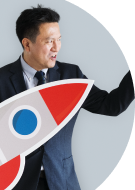
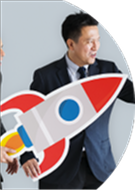
feat: implement SwiperCarousel for service cards with image support and fade effect

diff --git a/src/app/(home)/components/OurServices.tsx b/src/app/(home)/components/OurServices.tsx
@@ -1,12 +1,22 @@
+"use client";
+
 import { ServicesDataTypes } from "@/@types/@homeType";
 import { SectionWithContainer } from "@/components";
+import LinkButton from "@/components/buttons/LinkButton";
+import SwiperCarousel from "@/components/slider/SwiperCarousel";
 import SectionHeading from "@/components/typography/SectionHeadingDesc";
+import Image from "next/image";
+import { useState } from "react";
+import type { Swiper as SwiperType } from "swiper";
+import { EffectFade, Navigation, Thumbs } from "swiper/modules";
 
 const OurServices: React.FC<ServicesDataTypes> = ({
   title,
   subTitle,
   cards,
 }) => {
+  const [thumbsSwiper, setThumbsSwiper] = useState<SwiperType | null>(null);
+  const [activeIndex, setActiveIndex] = useState(0);
   return (
     <SectionWithContainer>
       <div className="grid md:grid-cols-2">
@@ -16,6 +26,67 @@ const OurServices: React.FC<ServicesDataTypes> = ({
             subTitle={subTitle}
             subTitleClassName="lg:text-[30px]"
             wrapperClassName="pr-16"
+          />
+          <div className="aspect-4/2 mt-4">
+            <SwiperCarousel
+              data={cards}
+              onSwiper={setThumbsSwiper}
+              loop={true}
+              slidesPerView={1.5}
+              spaceBetween={6}
+              watchSlidesProgress
+              slideToClickedSlide
+              breakpoints={{
+                768: {
+                  direction: "vertical",
+                  slidesPerView: cards.length,
+                },
+              }}
+              modules={[Thumbs]}
+              onSlideChange={(swiper) => setActiveIndex(swiper.realIndex)}
+              direction="horizontal"
+              className="h-full"
+              renderSlide={(sector) => (
+                <button
+                  className={`text-sm font-semibold ${activeIndex ? "text-primary" : "text-secondary"}`}
+                >
+                  {sector.title}
+                </button>
+              )}
+            />
+          </div>
+        </div>
+        <div className="">
+          <SwiperCarousel
+            data={cards}
+            slidesPerView={1}
+            loop
+            modules={[Navigation, Thumbs,EffectFade]}
+            effect="fade"
+            thumbs={{
+              swiper:
+                thumbsSwiper && !thumbsSwiper.destroyed ? thumbsSwiper : null,
+            }}
+            navigation={{
+              nextEl: ".sector-next",
+              prevEl: ".sector-prev",
+            }}
+            renderSlide={(sector) => (
+              <div className="space-y-4 bg-white py-6 px-4">
+                <div className="w-full relative aspect-4/1.5 rounded-[28.66px] border-2 border-white  box-shadow overflow-hidden">
+                  <Image
+                    src="/home/im8.png"
+                    alt={sector.title}
+                    fill
+                    className="object-cover "
+                    sizes="100vw"
+                  />
+                </div>
+                <h3 className="text-2xl">{sector.title}</h3>
+                <p className="text-lg">{sector.description}</p>
+                <button className="text-white bg-[#1B1B1B] rounded-full px-6 py-3 font-semibold">Grow My Socials</button>
+              </div>
+            )}
           />
         </div>
       </div>

diff --git a/src/components/slider/SwiperCarousel.tsx b/src/components/slider/SwiperCarousel.tsx
@@ -10,6 +10,7 @@ import "swiper/css/pagination";
 import "swiper/css/navigation";
 import "swiper/css/autoplay";
 import "swiper/css/effect-coverflow";
+import "swiper/css/effect-fade";
 
 interface SwiperCaroselProps<T> extends SwiperProps {
   data: T[];
